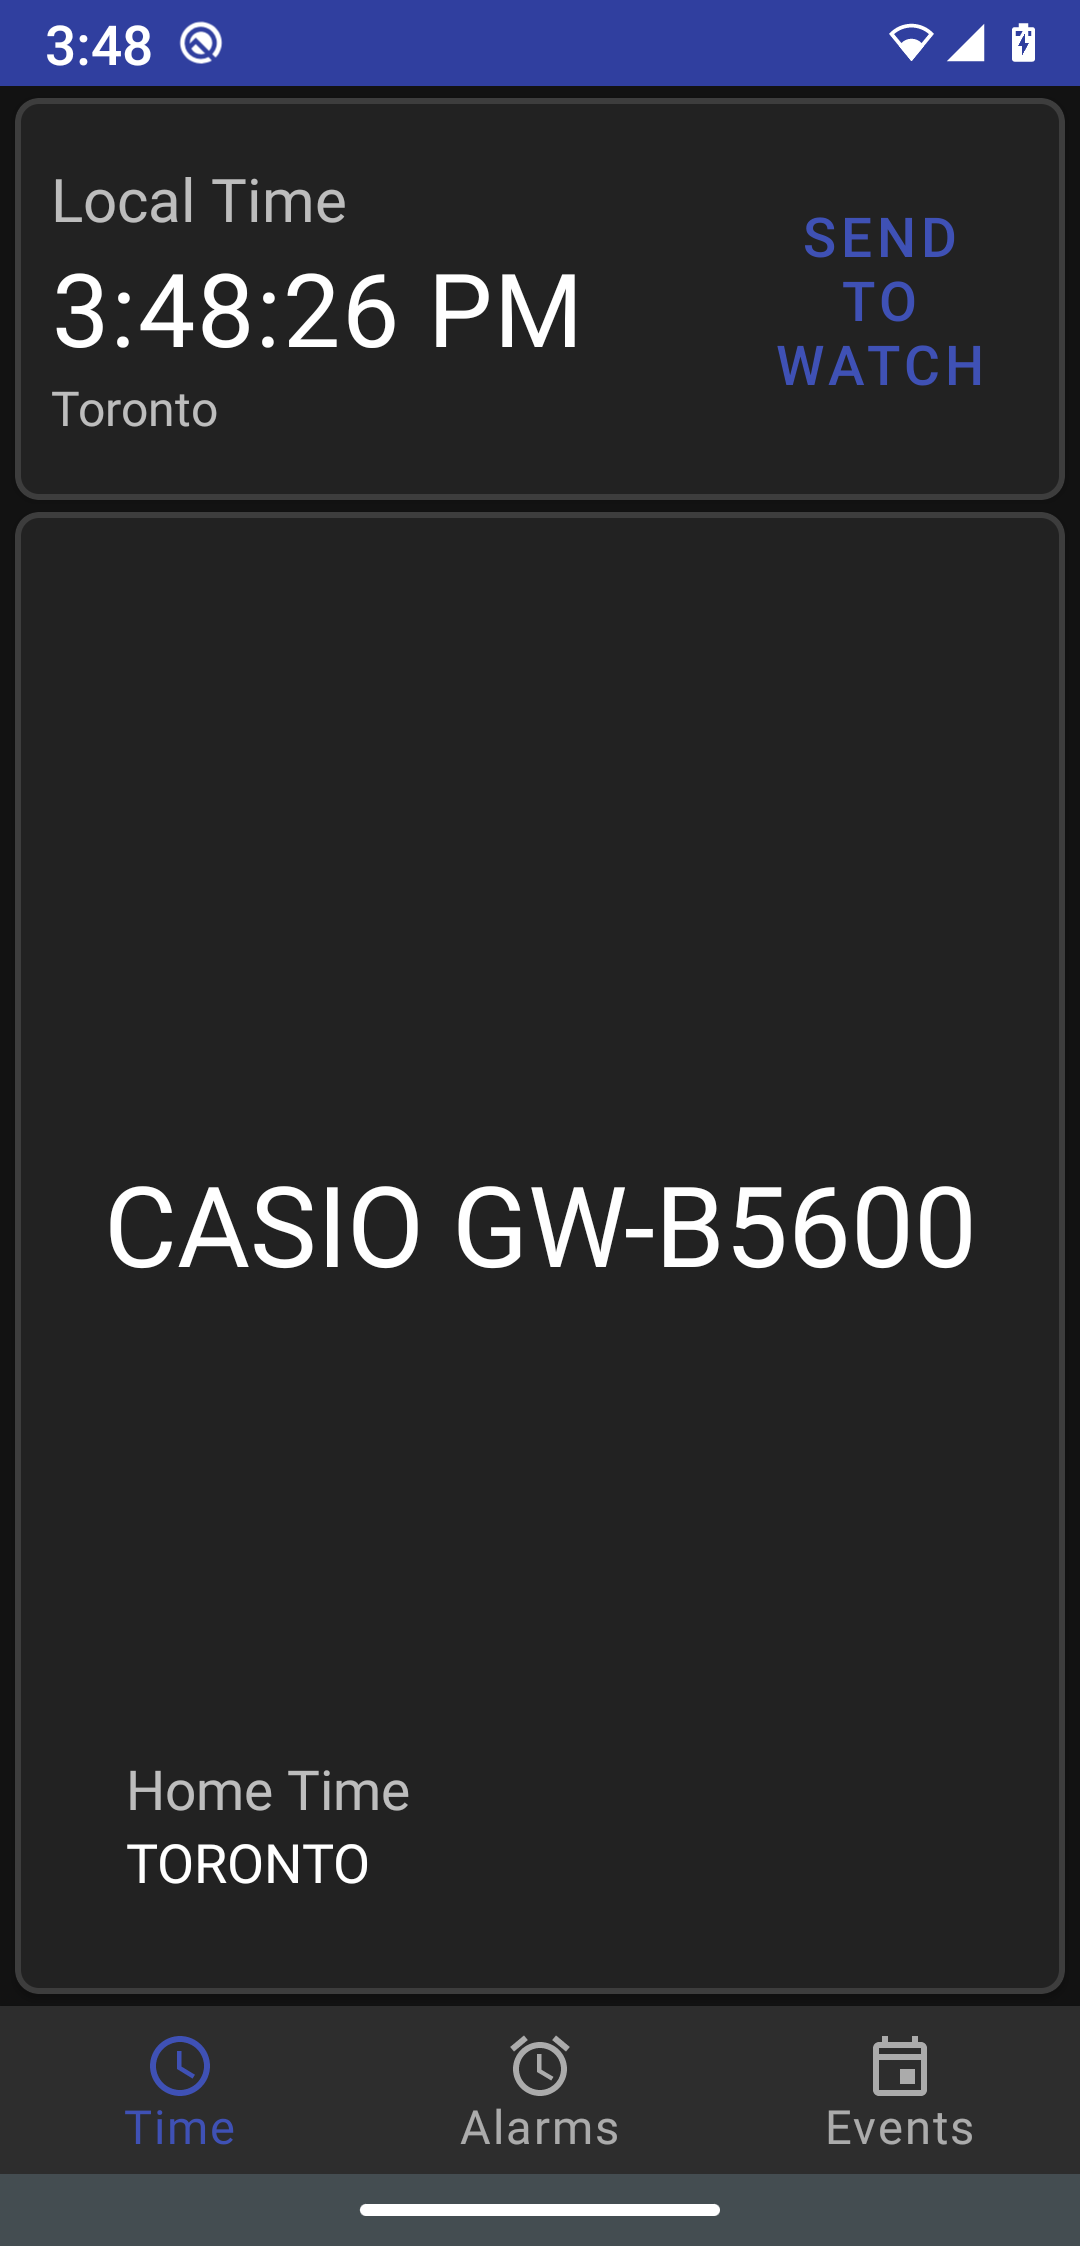
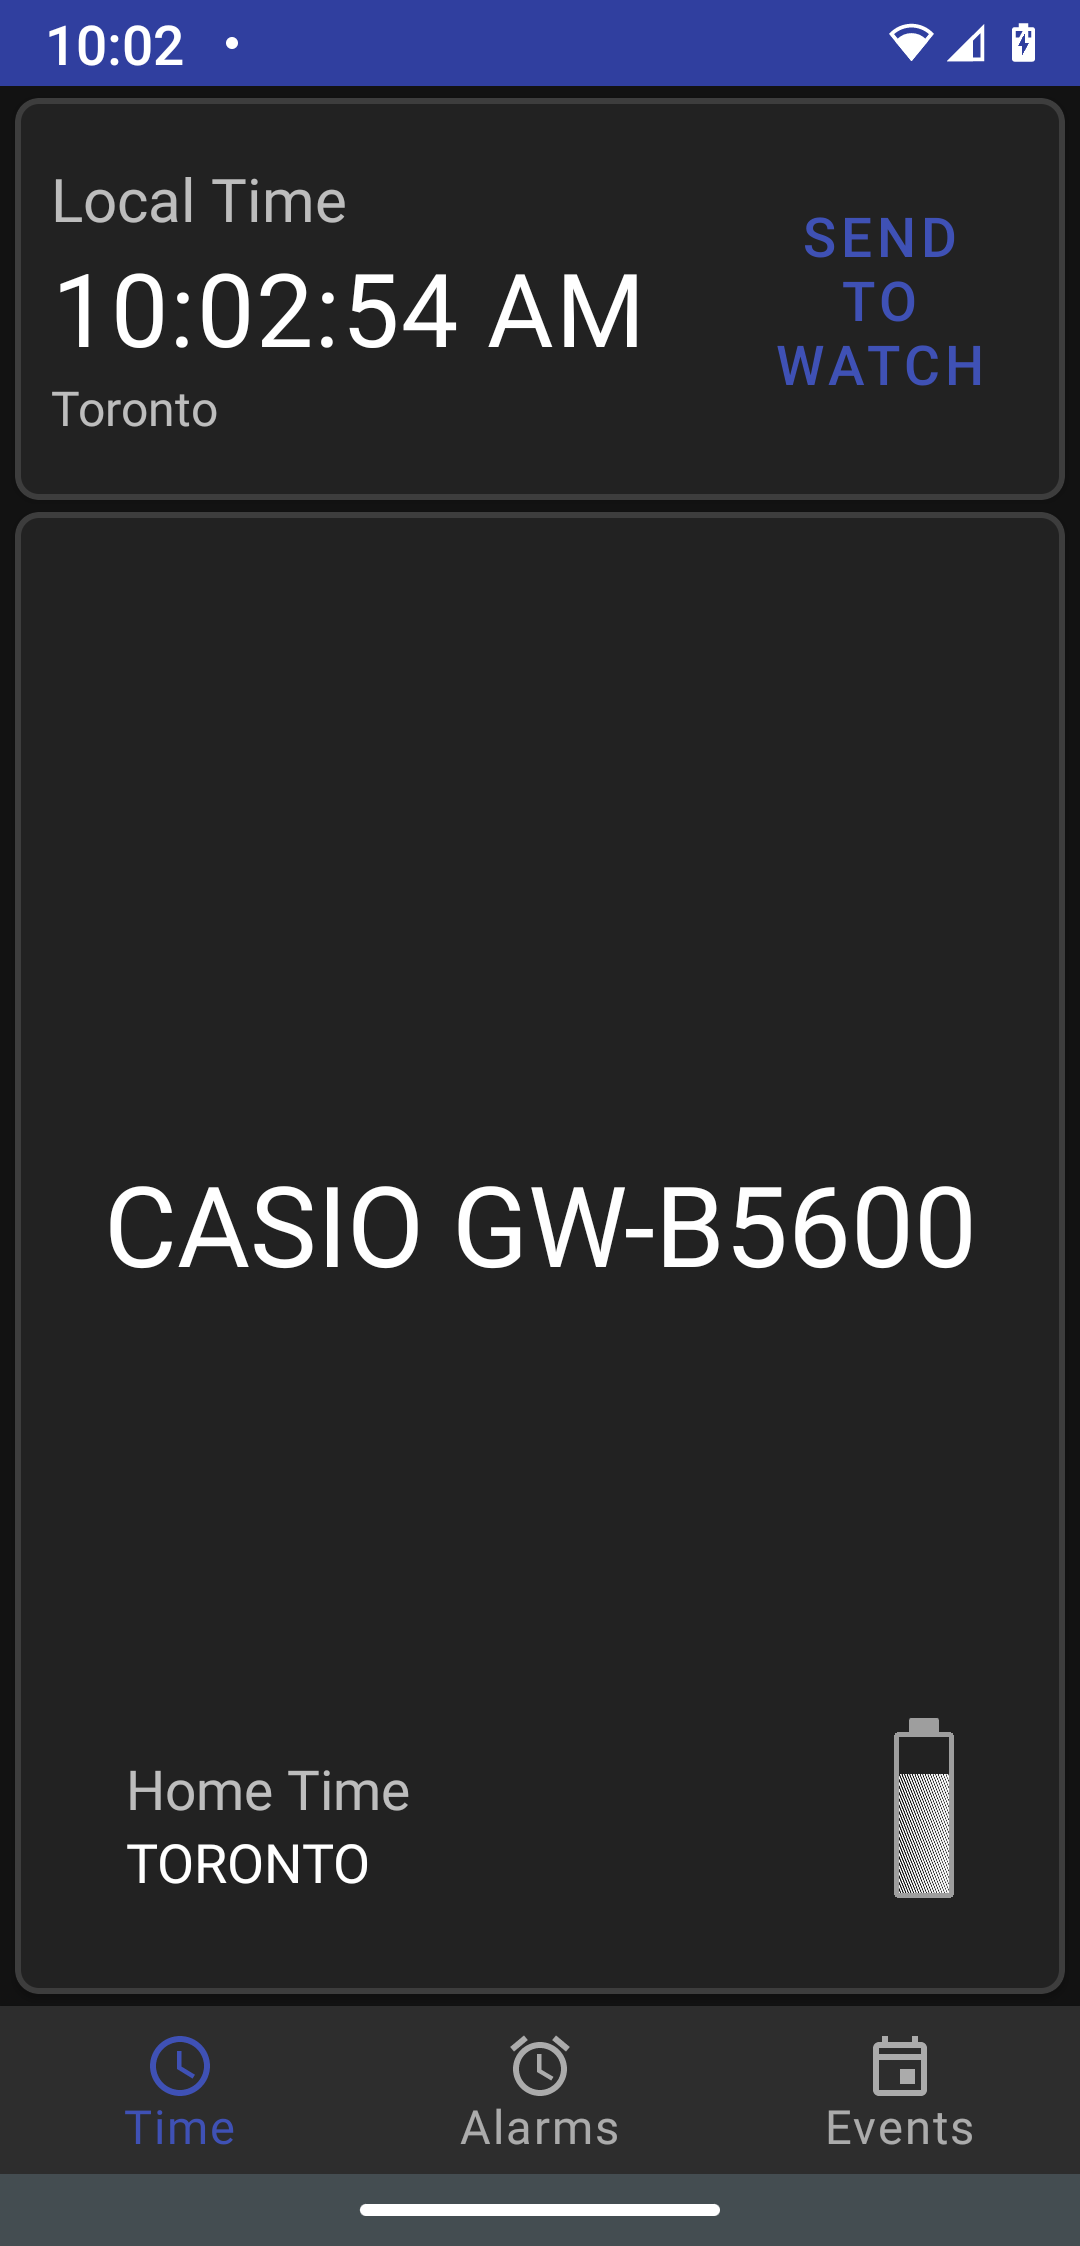
Added battery level indicator

Changed region(s): [[0.0611, 0.1247, 0.6111, 0.1558], [0.825, 0.748, 0.8861, 0.8415], [0.0306, 0.0, 0.2139, 0.0312]]

diff --git a/app/src/main/java/org/avmedia/gShockPhoneSync/casioB5600/WatchDataCollector.kt b/app/src/main/java/org/avmedia/gShockPhoneSync/casioB5600/WatchDataCollector.kt
@@ -11,6 +11,7 @@ import org.avmedia.gShockPhoneSync.ble.Connection
 import org.avmedia.gShockPhoneSync.utils.ProgressEvents
 import org.avmedia.gShockPhoneSync.utils.Utils
 import org.avmedia.gShockPhoneSync.utils.WatchDataEvents
+import timber.log.Timber
 import java.util.Locale
 
 object WatchDataCollector {
@@ -50,7 +51,27 @@ object WatchDataCollector {
                 }
             }
             "23" -> watchName = Utils.toAsciiString(command, 1)
-            "28" -> batteryLevel = command.split(' ')[2].toInt(16)
+            "28" -> {
+                batteryLevel = 0
+                var cmdInts = Utils.toIntArray(command)
+                // command looks like 0x28 13 1E 00.
+                // 50% level is obtain from the second Int 13:
+                // 0x13 = 0b00010011
+                // take MSB 0b0001. If it is not 0, we have 50% charge
+                val MASK_50_PERCENT = 0b00010000
+                batteryLevel += if (cmdInts[1] or MASK_50_PERCENT != 0) 50 else 0
+
+                // Fine value is obtained from the 3rd integer, 0x1E. The LSB (0xE) represents
+                // the fine value between 0 and 0xf, which is the other 50%. So, to
+                // get this value, we have 50% * 0xe / 0xf. We add this to the previous battery level.
+                // So, for command 0x28 13 1E 00, our battery level would be:
+                // 50% (from 0x13) + 47 = 97%
+                // The 47 number was obtained from 50 * 0xe / 0xf or 50 * 14/15 = 46.66
+
+                val MASK_FINE_VALUE = 0xf
+                val fineValue = cmdInts[2] and MASK_FINE_VALUE
+                batteryLevel += 50 * fineValue / 15
+            }
         }
     }
 
